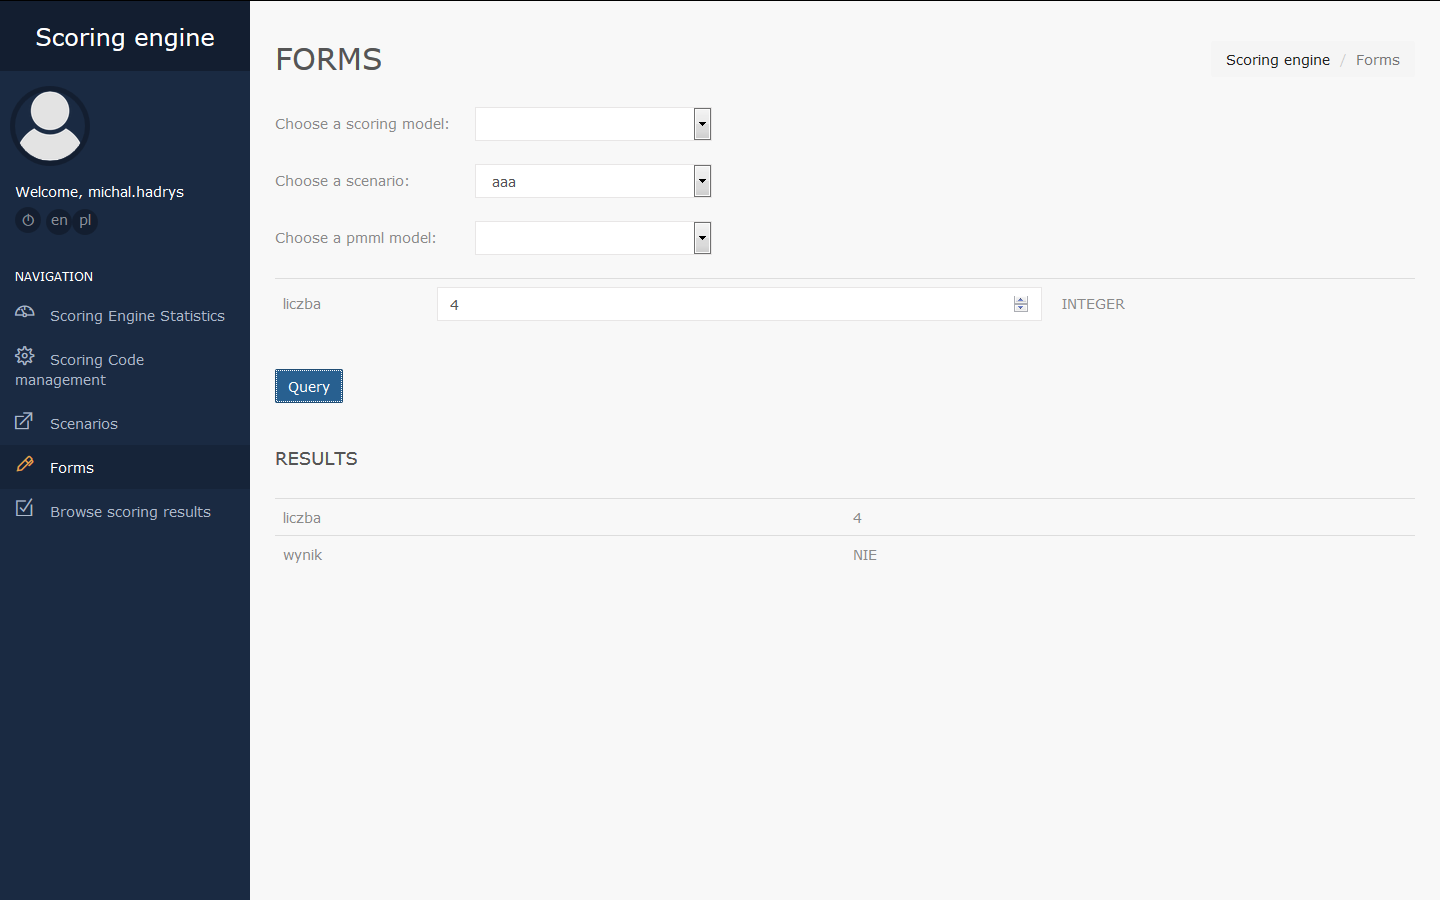
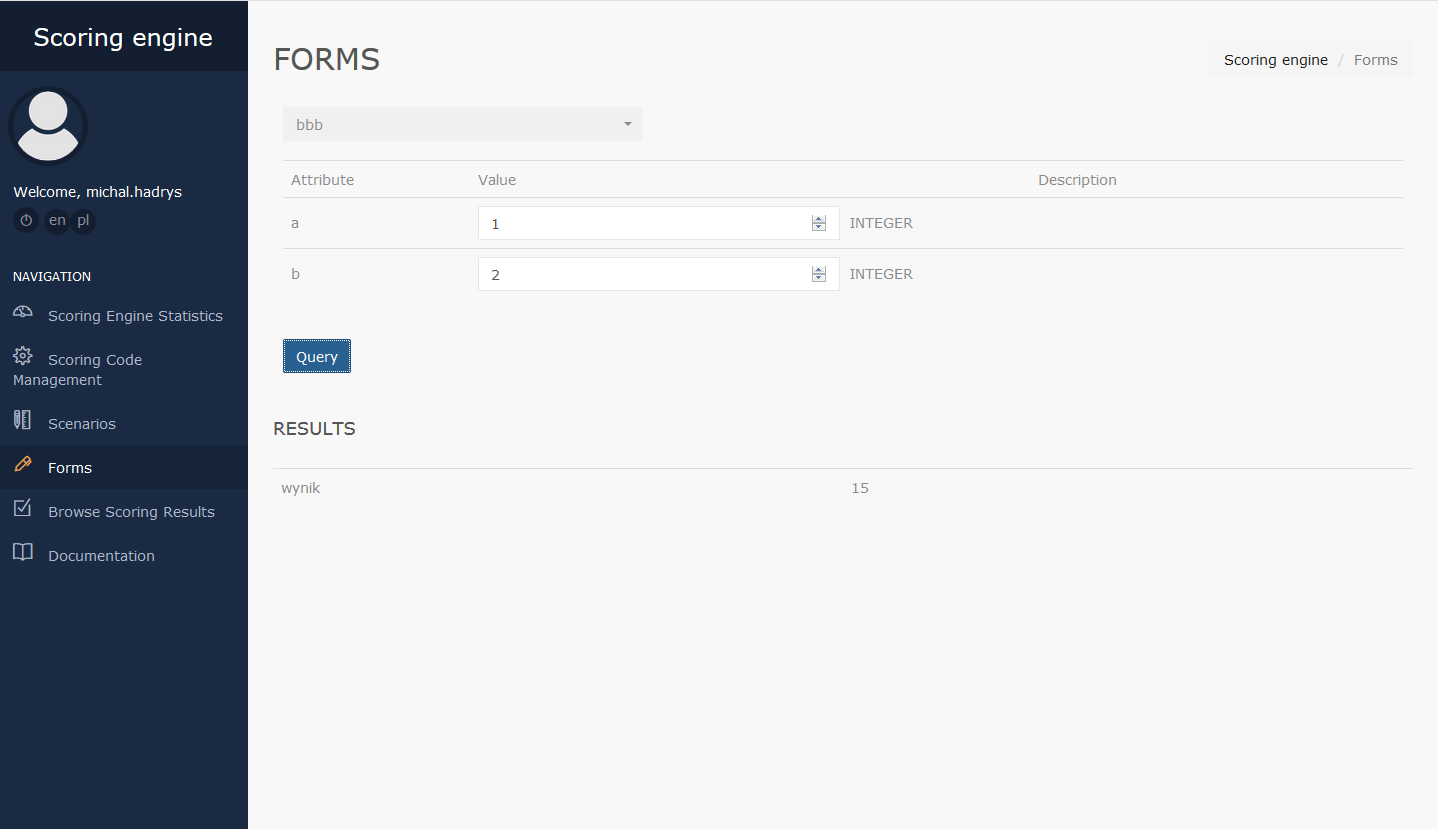
Poprawki i aktualizacja dokumentacji

diff --git a/4. Creating and testing a scenario.md b/4. Creating and testing a scenario.md
@@ -1,7 +1,7 @@
 # Creating and testing a scenario #
 
 ### General description ###
-A scenario is an advanced form of code, allowing the user to combine scoring and pmml models, other scenarios and internal and external databases. To start building a scenario, click Create new scenario in Scenarios panel. To create a scenario, connect selected nodes, starting with a Start node, and ending with an End node, and define settings of added nodes. To generate a created scenario, click the Generate code button, located in the lower left corner of the screen. Changing the name of a scenario is possible in the upper left corner of the screen. User can also change a name of a node by clicking it twice and entering a new name.
+A scenario is an advanced form of code, allowing the user to combine scoring and pmml models, other scenarios and internal and external databases. To start building a scenario, click Create new scenario in Scenarios panel. To create a scenario, connect selected nodes, starting with a Start node, and ending with an End node, and define settings of added nodes. To generate a created scenario, click the Deploy button, located in the upper left corner of the screen. Changing the name of a scenario is possible in the upper left corner of the screen. User can also change a name of a node by clicking it twice and entering a new name.
 
 ![Scenario view](images/Scenario.png "Scenario view")
 
@@ -21,8 +21,8 @@ A scenario is an advanced form of code, allowing the user to combine scoring and
 
 	In the Import section, user can import a list of input variables from a file.
 
-- **Scoring code/Scenario/PMML code** – node used to add a scoring code/scenario/pmml code to the scenario. After adding the node, select the scoring code/scenario/pmml code from the drop-down list. Import of necessary variables to the Start node is possible through the import & merge button. In the node user also defines merge type of variables added by this node and a prefix of these variables.
-- **Expression** – node designed to add Java expressions to the scenario. Node consists of an area with a Java code and 2 buttons: Edit and Reset. The Edit button opens a window to edit the code, the Reset button deletes the code. In the node user also defines merge type of variables added by this node and a prefix of these variables. 
+- **Scoring code/Scenario code** – node used to add a scoring code/scenario code to the scenario. After adding the node, enter the scoring code/scenario code name. In Scoring code node, the type of the code must be set in Type list. Import of necessary variables to the Start node is possible through the Import variables button. In the node user also defines merge type of variables added by this node and a prefix of these variables.
+- **Expression** – node designed to add Groovy/R expressions to the scenario. Node consists of an area with a Java code and 2 buttons: Edit and Reset. The Edit button opens a window to edit the code, the Reset button deletes the code. There is also a list, where user can choose code type. In the node user also defines merge type of variables added by this node and a prefix of these variables. 
 
 	**Attention**: The Reset button deletes the whole code. After saving the node it is not possible to undo this operation.
 
@@ -35,7 +35,9 @@ A scenario is an advanced form of code, allowing the user to combine scoring and
 
 - **Internal data** – node used to add an internal database. To add a database, define join conditions: Join variable, Data collection (name of the database) and Data index. After selecting a database, in the Columns section a list of database columns will be presented. For each column user can decide, whether it will be included in the scenario. In the node user also defines merge type of variables added by this node, a prefix of these variables and whether results will be limited to one row.
 
-- **External data** – node used to add an external database. To add a database, define method (GET, POST, PUT, DELETE) and URL address, and add appropriate headers by entering their names and values and clicking Add. Added headers are presented in the list below. In the node user also defines response type (JSON or XML), merge type of variables added by this node and a prefix of these variables.
+- **External data** – node used to add an external database. To add a database, define method (GET, POST, PUT, DELETE) and URL address, and add appropriate headers by entering their names and values and clicking Add. Added headers are presented in the list below. In the node user also defines response type (JSON or XML), request timeout and retry values, using cache and catching an error, merge type of variables added by this node and a prefix of these variables.
+
+- **Customer data** – node used to add an customer database. To add a database, define source type (CRIF, ERIF, KRD, BIG_INFO_MONITOR, BIK), data source login and password and whether it is a test mode. In the node user also defines customer type (INDIVIDUAL or BUSINESS), request timeout and retry values, using cache and catching an error, merge type of variables added by this node and a prefix of these variables.
 
 - **End** – an ending node. The node contains a list of all variables generated by previous nodes, that have not been overwritten. For each variable user can decide, whether this variable will appear in scenario result.
 

diff --git a/2. Panels overview.md b/2. Panels overview.md
@@ -7,7 +7,7 @@ This panel contains scoring engine statistics. On the top of the panel the follo
 ![Scoring Engine Statistics panel](images/Scoring_Engine_Statistics.png "Scoring Engine Statistics panel")
 
 ### Scoring Code management ###
-Scoring Code management panel is designed to add and view scoring codes. It consist of 2 parts: an Add New Scoring Code button, used to add new scoring codes, and a table containing information about added codes. Clicking the Add New Scoring Code button will open an area to add a new code. On the left side of the area there is a Scoring code name field, in which a name of the code must be entered. To choose a file with the code, drag the file to the field on the right side of the area, or click this field and select the file. 
+Scoring Code management panel is designed to add and view scoring codes. It consist of 2 parts: an "Add new scoring code" button, used to add new scoring codes, and a table containing information about added codes. Clicking the Add New Scoring Code button will open an area to add a new code. On the upper side of the area there is a Scoring code name field, in which a name of the code must be entered, and a list od encodings. To choose a file with the code, drag the file to the field on the right side of the area, or click this field and select the file. Added files are shown at the bottom of the area.
 
 The table with information about the codes contains following columns:
 
@@ -17,7 +17,7 @@ The table with information about the codes contains following columns:
 - **User** – name of the user, who added the code
 - **Created** - date of adding the code
 
-To the right, for every code there is an Edit button, and a drop-down list with 2 buttons: Version and Delete. Edit button is used to edit the code, Version button is used to set the code version, Delete button deletes the code. After clicking a code, 2 buttons will appear: Metrics and Scoring Code Src. Metrics button shows code statistics: number of correct and incorrect requests, maximum number of requests per second and maximum, minimum and average response time. Scoring Code Src presents a scoring code.
+To the right, for every code there is an Version button, and a drop-down list with 3 buttons: Export, Download and  Delete. Version button is used to set the code version, Delete button deletes the code, Export and Download buttons downloads the code in .json or chosen code format respectively. After clicking a code, 2 buttons will appear: Metrics and Scoring Code Src. Metrics button shows code statistics: number of correct and incorrect requests, maximum number of requests per second and maximum, minimum and average response time. Scoring Code Src presents a scoring code.
 
 ![Scoring Code management panel](images/Scoring_Code_management.png "Scoring Code management panel")
 
@@ -34,7 +34,7 @@ To the right, for every code there is an Edit button, and a drop-down list conta
 ![Scenarios panel](images/Scenarios.png "Scenarios panel")
 
 ### Forms ###
-Forms panel is designed to query scoring/pmml codes and scenarios. The panel contains 3 drop-down lists: scoring models list, scenarios list and pmml models list. After choosing a model/scenario, fields corresponding to model/scenario input variables will appear below. To query a model/scenario, enter values of variables info the proper fields, and click Query button. Results of the query appear below the Query button.
+Forms panel is designed to query scoring/pmml codes and scenarios. The panel contains a drop-down list of scoring models, scenarios and pmml models. After choosing a model/scenario, fields corresponding to model/scenario input variables will appear below. To query a model/scenario, enter values of variables info the proper fields, and click Query button. Results of the query appear below the Query button.
 
 ![Forms panel](images/Forms.png "Forms panel")
 
@@ -52,3 +52,6 @@ This panel is designed to browse results of queries. Results are presented in 3 
 - **Error** – information about an error (if occurred)
 
 ![Browse scoring results panel](images/Browse_scoring_results.png "Browse scoring results panel")
+
+### Documentation ###
+Clicking Documentation button in the menu on the left side of the screen open the documentation in new window.

diff --git a/3. Implementation of scoring models.md b/3. Implementation of scoring models.md
@@ -5,4 +5,4 @@ Scoring Engine supports scoring models in 2 formats: Java code or PMML code. Add
 Scoring code can be added in Scoring code management panel. To add a scoring code, click the Add New Scoring Code button, then enter the name of the code and drag the file with the code to designated area on the right side of the screen, or click this area and select the file with the code to add. A list of added codes is presented on the bottom of the panel.
 
 ### Testing a code ###
-Added codes can be queries in Forms panel. For this purpose, select a model from Choose a scoring model or Choose a pmml model drop-down list (depending on the model type), enter proper values of displayed input variables (defined in the code), and then click the Query button. If the query is correct, output variables (defined in the code) will be displayed. Otherwise, the engine will display an appropriate error. Queries can be viewed in Browse scoring results panel, after choosing Scoring model or Pmml model in Result type drop-down list.
+Added codes can be queries in Forms panel. For this purpose, select a model from model drop-down list, enter proper values of displayed input variables (defined in the code), and then click the Query button. If the query is correct, output variables (defined in the code) will be displayed. Otherwise, the engine will display an appropriate error. Queries can be viewed in Browse scoring results panel, after choosing Scoring model or Pmml model in Result type drop-down list.

diff --git a/index.md b/index.md
@@ -6,6 +6,6 @@
 
 1. [Engine description](http://scoring-engine.readthedocs.io/en/latest/1.%20Engine%20description/)
 2. [Panels overview](http://scoring-engine.readthedocs.io/en/latest/2.%20Panels%20overview/)
-3. [Implementation of scoring models](http://scoring-engine.readthedocs.io/en/latest/4.%20Implementation%20of%20scoring%20models/)
-4. [Creating and testing a scenario](http://scoring-engine.readthedocs.io/en/latest/5.%20Creating%20and%20testing%20a%20scenario/)
+3. [Implementation of scoring models](http://scoring-engine.readthedocs.io/en/latest/3.%20Implementation%20of%20scoring%20models/)
+4. [Creating and testing a scenario](http://scoring-engine.readthedocs.io/en/latest/4.%20Creating%20and%20testing%20a%20scenario/)
 5. [Examples of engine operations through API](http://scoring-engine.readthedocs.io/en/latest/api.html)
